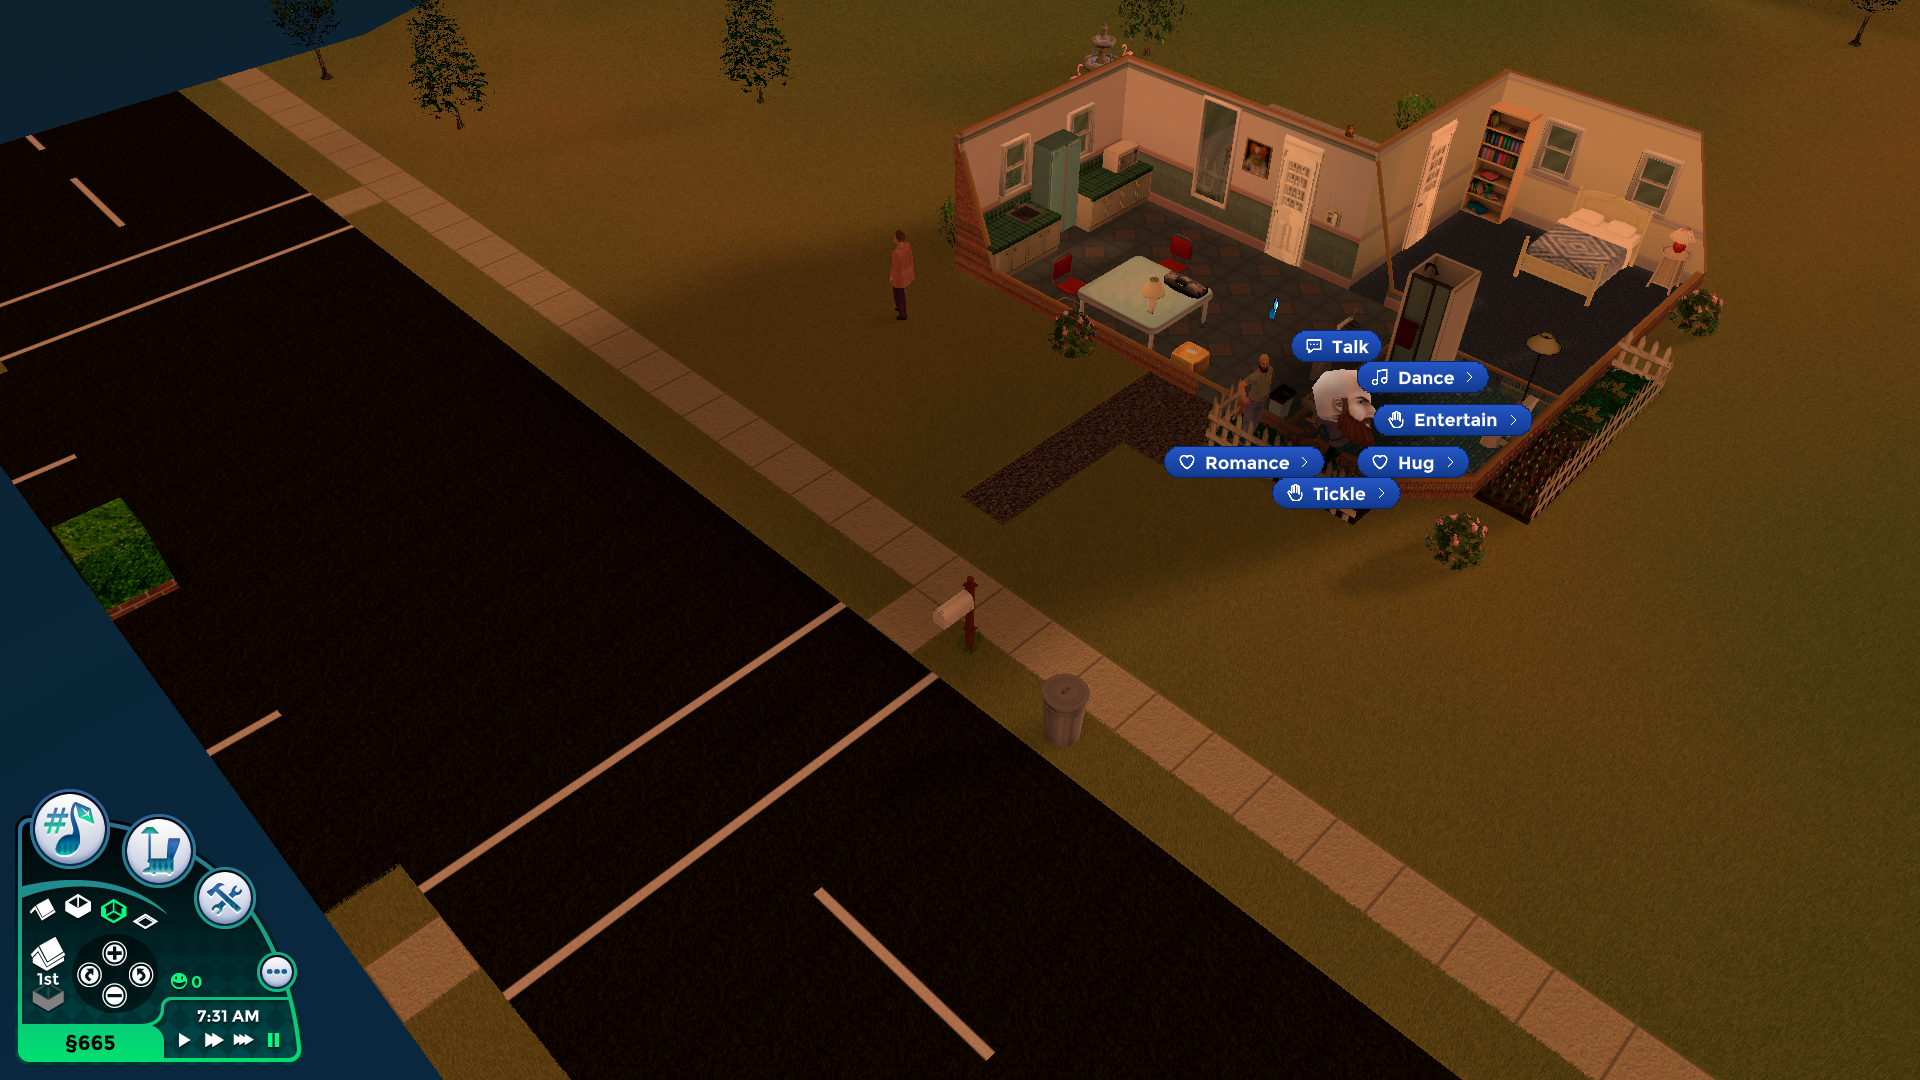
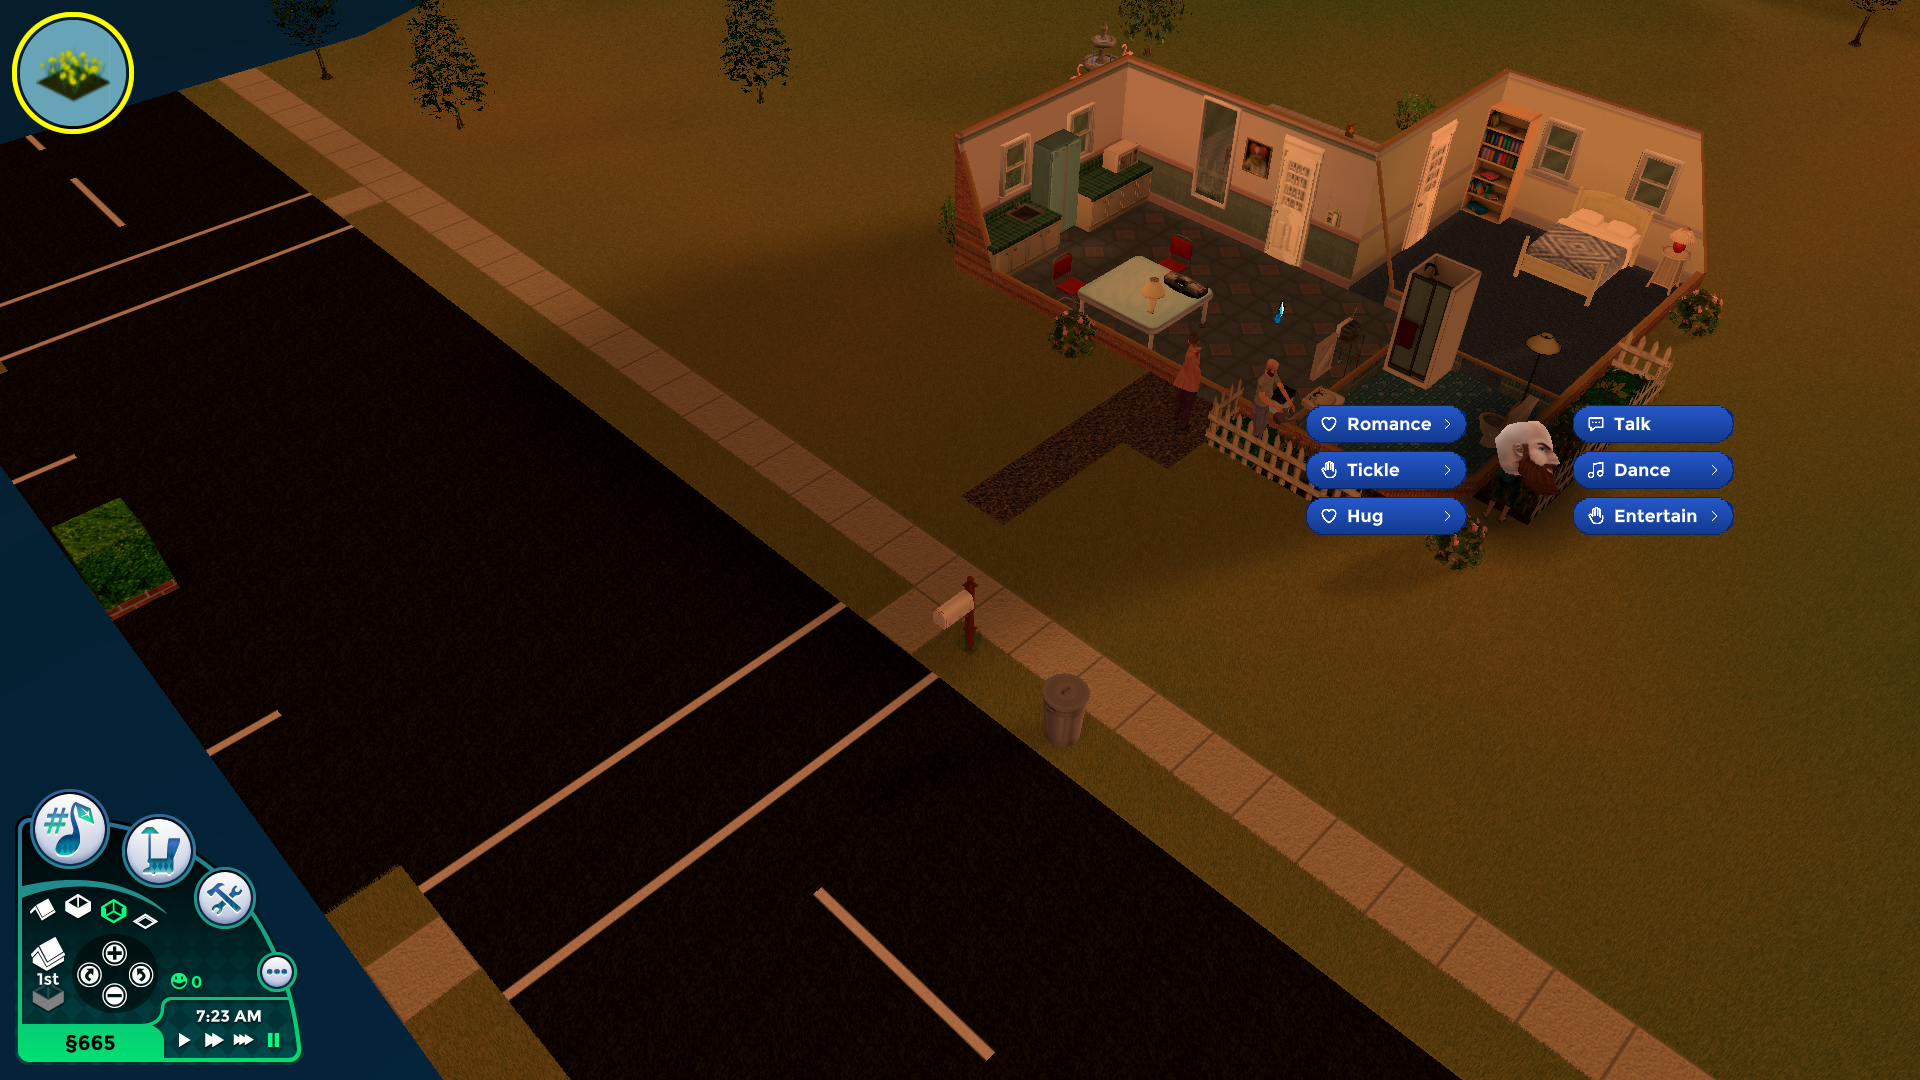
Pie menu: equal-width slots in two even columns around the Sim head

diff --git a/Tools/Conversations/Game/PieOverlay.cs b/Tools/Conversations/Game/PieOverlay.cs
@@ -86,6 +86,10 @@ namespace Simitone.Conversations
                 bool hasParent = Prop(current, "Parent") != null;
 
                 painter.BeginDraw(batch);
+                if (buttons.Count == 0) { LastState = "new slots=0"; return; }
+                var first = buttons[0] as UIButton;
+                if (first == null) { LastState = "native (unexpected button)"; return; }
+                if (!ReferenceEquals(first, laidOut) || buttons.Count != laidCount) { Arrange(buttons, hasParent); laidOut = first; laidCount = buttons.Count; }
                 int drawn = 0;
                 for (int i = 0; i < buttons.Count; i++)
                 {
@@ -102,14 +106,42 @@ namespace Simitone.Conversations
 
         static string Str(object o, string name) { var v = Prop(o, name); return v == null ? "" : v.ToString(); }
 
+        object laidOut; int laidCount;
+        const float SlotH = 36, Gutter = 10, Hub = 54;
+
+        // Moves the native buttons into the harmonious layout (PieStyle.Layout) and gives them one common width, so the click areas are the slots we draw.
+        void Arrange(IList buttons, bool hasParent)
+        {
+            int n = buttons.Count - (hasParent ? 1 : 0);
+            float w = 0;
+            for (int i = 0; i < buttons.Count; i++)
+            {
+                var b = buttons[i] as UIButton; if (b == null) continue;
+                bool back = hasParent && i == buttons.Count - 1;
+                float tw, th; painter.MeasureText(back ? PieStyle.CleanLabel(b.Caption) : PieStyle.ShortLabel(b.Caption), TextSize, false, out tw, out th);
+                w = Math.Max(w, PieStyle.SlotWidth(tw, IconSize, 0, !back && PieStyle.IsSubmenu(b.Caption)));
+            }
+            w = (float)Math.Ceiling(Math.Max(w, 120));
+            float[] cx, cy; float bx, by;
+            PieStyle.Layout(n, hasParent, w, SlotH, Hub, Gutter, out cx, out cy, out bx, out by);
+            for (int i = 0; i < buttons.Count; i++)
+            {
+                var b = buttons[i] as UIButton; if (b == null) continue;
+                b.Width = w;
+                bool back = hasParent && i == buttons.Count - 1;
+                float x = back ? bx : cx[i], y = back ? by : cy[i];
+                b.X = x - w / 2; b.Y = y - b.Size.Y / 2;
+            }
+        }
+
         void DrawSlot(float nx, float ny, float nw, float nh, string caption, bool back)
         {
             bool sub = !back && PieStyle.IsSubmenu(caption);
             string full = PieStyle.CleanLabel(caption);
             string label = back ? full : PieStyle.ShortLabel(caption);
             float tw, th; painter.MeasureText(label, TextSize, false, out tw, out th);
-            float w = PieStyle.SlotWidth(tw, IconSize, nw, sub), h = Math.Max(30, nh);   // as tall as the native button: stacked slots (more than 8 entries) then do not cover each other
-            float x = nx + nw / 2 - w / 2, y = ny + nh / 2 - h / 2;
+            float w = nw, h = SlotH;
+            float x = nx, y = ny + nh / 2 - h / 2;
             bool hover = mouseX >= nx && mouseX <= nx + nw && mouseY >= ny && mouseY <= ny + nh;
 
             var a = Token(hover ? "info" : "pie-a", new Rgba(38, 88, 200)); var bcol = Token("pie-b", new Rgba(18, 58, 143));

diff --git a/Tools/Conversations/Logic/PieStyle.cs b/Tools/Conversations/Logic/PieStyle.cs
@@ -50,6 +50,28 @@ namespace Simitone.Conversations
             return i > 0 && i + 3 < s.Length ? s.Substring(i + 3).Trim() : s;
         }
 
+        // Harmonious layout: every slot the same size, in two even columns either side of the Sim's head (hub = half the gap between
+        // them). Entries run clockwise like the native pie: down the right column, then up the left one; an odd count leaves the left column
+        // half a row lower so the block stays balanced. A back button (submenus) gets its own centred row on top. Returns slot centres
+        // relative to the pie origin; the block is centred vertically on it.
+        public static void Layout(int n, bool hasBack, float slotW, float slotH, float hub, float gutter, out float[] cx, out float[] cy, out float backX, out float backY)
+        {
+            cx = new float[n]; cy = new float[n];
+            int right = (n + 1) / 2, left = n - right, rows = Math.Max(1, right);
+            float pitch = slotH + gutter;
+            float first = hasBack ? 1 : 0;                       // row index of the first column row
+            float total = rows + first;
+            float colX = hub + slotW / 2;
+            for (int i = 0; i < n; i++)
+            {
+                float row;
+                if (i < right) { row = i; cx[i] = colX; }
+                else { int j = i - right; row = left - 1 - j + (rows - left) / 2f; cx[i] = -colX; }
+                cy[i] = (row + first - (total - 1) / 2f) * pitch;
+            }
+            backX = 0; backY = (0 - (total - 1) / 2f) * pitch;
+        }
+
         // slot width: icon, gaps and text, never narrower than the native button it covers (so the native one is fully hidden)
         public static float SlotWidth(float textWidth, float iconSize, float nativeWidth, bool submenu)
         {

diff --git a/Tools/Conversations.Tests/UiPageTests.cs b/Tools/Conversations.Tests/UiPageTests.cs
@@ -172,6 +172,28 @@ namespace Conversations.Tests
                 Assert.Contains(PieStyle.IconFor(label), order);
         }
 
+        [Fact]
+        public void PieStyle_LayoutIsTwoEvenColumnsWithNoOverlap()
+        {
+            float[] cx, cy; float bx, by;
+            foreach (var n in new[] { 1, 2, 3, 6, 8, 10 })
+                foreach (var back in new[] { false, true })
+                {
+                    PieStyle.Layout(n, back, 150, 36, 54, 10, out cx, out cy, out bx, out by);
+                    for (int i = 0; i < n; i++)
+                    {
+                        Assert.Equal(i < (n + 1) / 2 ? 129f : -129f, cx[i]);
+                        for (int j = i + 1; j < n; j++)
+                            Assert.True(cx[i] != cx[j] || Math.Abs(cy[i] - cy[j]) >= 46f);
+                        if (back && cx[i] != 0) Assert.True(Math.Abs(cy[i] - by) >= 46f);
+                    }
+                }
+            PieStyle.Layout(6, false, 150, 36, 54, 10, out cx, out cy, out bx, out by);
+            Assert.Equal(cy[0], cy[5]); Assert.Equal(cy[2], cy[3]);       // clockwise: right column down, left column up, rows line up
+            PieStyle.Layout(3, false, 150, 36, 54, 10, out cx, out cy, out bx, out by);
+            Assert.Equal(0f, cy[2] + 0f * 0 - (cy[0] + cy[1]) / 2);       // the single left slot sits between the two right rows
+        }
+
         static string FindPage(string name)
         {
             for (var d = new DirectoryInfo(AppContext.BaseDirectory); d != null; d = d.Parent)
